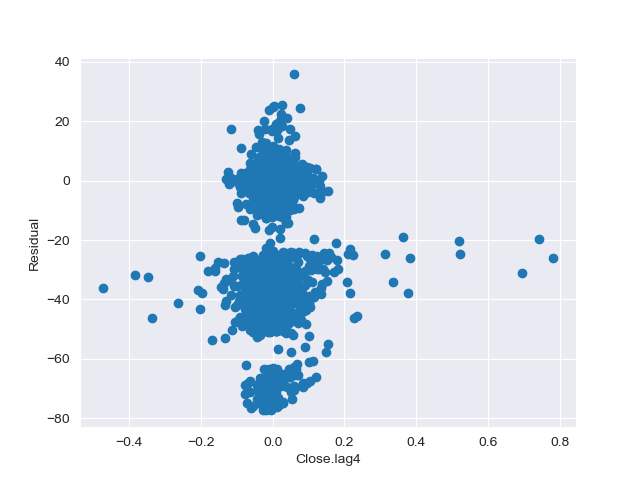
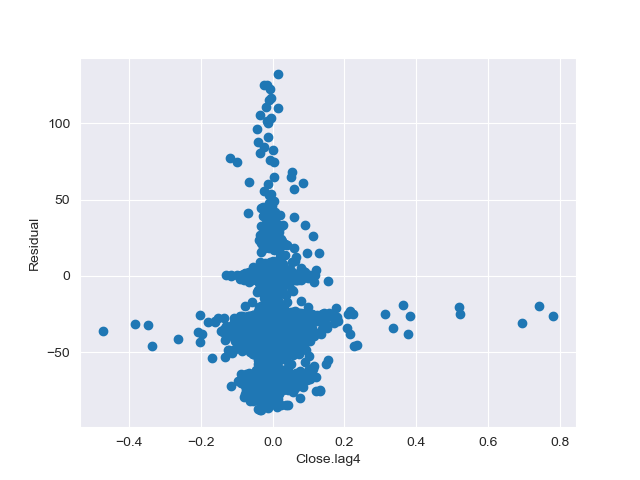
model

diff --git a/Model/gbm.py b/Model/gbm.py
@@ -1,0 +1,39 @@
+import numpy as np
+import pandas as pd
+import seaborn as sns
+import matplotlib.pyplot as plot
+from scipy.integrate import solve_ivp
+sns.set_style('darkgrid')
+# Data Cleaning
+data = pd.read_csv('../Stocks_daily/BA.csv', index_col=0)
+data.index = pd.to_datetime( data.index, format='%Y-%m-%d' )
+data.sort_index( inplace=True, ascending=True )
+data['Close.next'] = data['Close'].shift(-1) 
+data['Buy'] = np.where( data['Close.next'] > data['Close'], 1, 0 )
+data['Return'] = np.log( data['Close.next'] / data['Close'] )
+data = data.dropna()
+# GBM
+# Python code for the plot
+
+mu = data['Return'].mean()
+n = data['Close'].shape[0]
+dt = 1
+x0 = data['Close'].iloc[0]
+np.random.seed(1)
+
+sigma = data['Return'].std()
+
+x = np.exp(
+    (mu - sigma ** 2 / 2) * dt
+    + sigma * np.random.normal(0, np.sqrt(dt), size=(1, n)).T
+)
+x = np.vstack([np.ones(1), x])
+x = x0 * x.cumprod(axis=0)
+
+plot.subplot(2,1,1)
+plot.plot(x)
+plot.xlabel("$t$")
+plot.ylabel("$x$")
+plot.subplot(2,1,2)
+plot.plot(data['Adjusted Close'])
+plot.show()

diff --git a/Model/model.py b/Model/model.py
@@ -37,8 +37,8 @@ output_var = 'Close.next'
 X = data[ input_vars ]
 y = data[ output_var ]
 X = SplineTransformer(degree=3, knots='quantile').fit_transform(X)
-X_train, X_test, y_train, y_test, idx_train, idx_test = train_test_split( X, y, data.index, shuffle=False, train_size=0.7 )
-regr = MLPRegressor( hidden_layer_sizes=[32, 32, 32, 1], activation='relu', solver='lbfgs', alpha=0.00005, max_iter=1000000000, max_fun=1000000, learning_rate='invscaling', learning_rate_init=1e-6 )
+X_train, X_test, y_train, y_test, idx_train, idx_test = train_test_split( X, y, data.index, shuffle=False, train_size=0.3 )
+regr = MLPRegressor( hidden_layer_sizes=[32, 32, 32, 1], activation='relu', solver='lbfgs', alpha=0.000005, max_iter=1000000000, max_fun=1000000, learning_rate='invscaling', learning_rate_init=1e-15 )
 InputScaler = StandardScaler()
 InputScaler.fit( X_train )
 X_train = InputScaler.transform( X_train )
